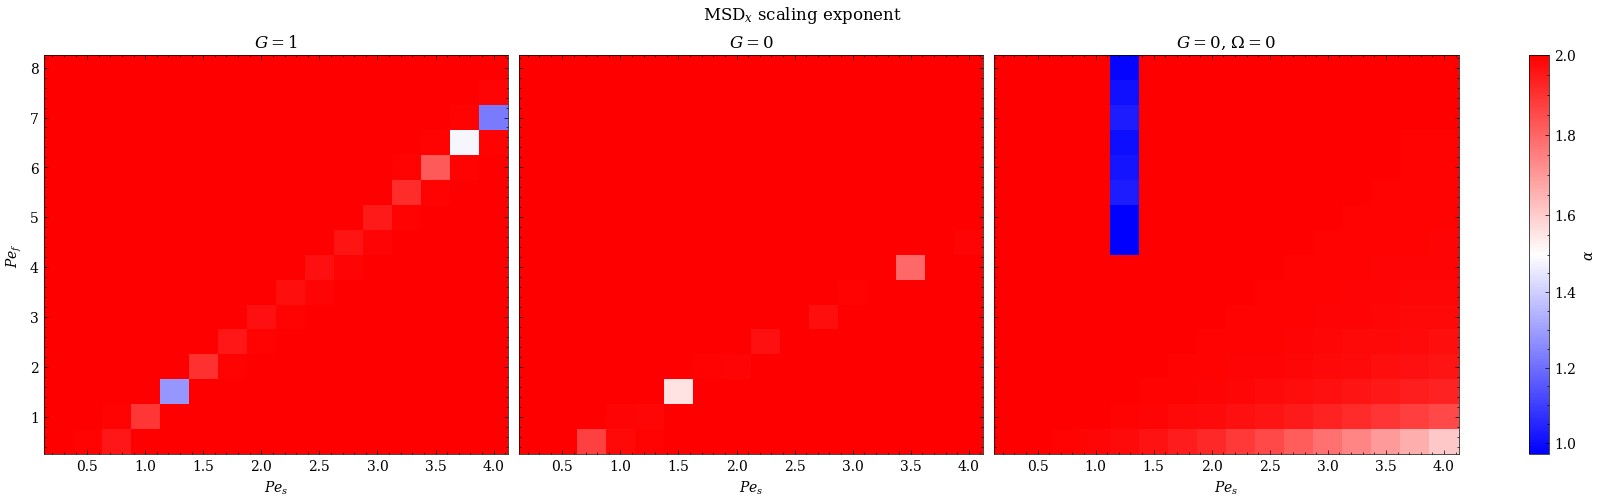
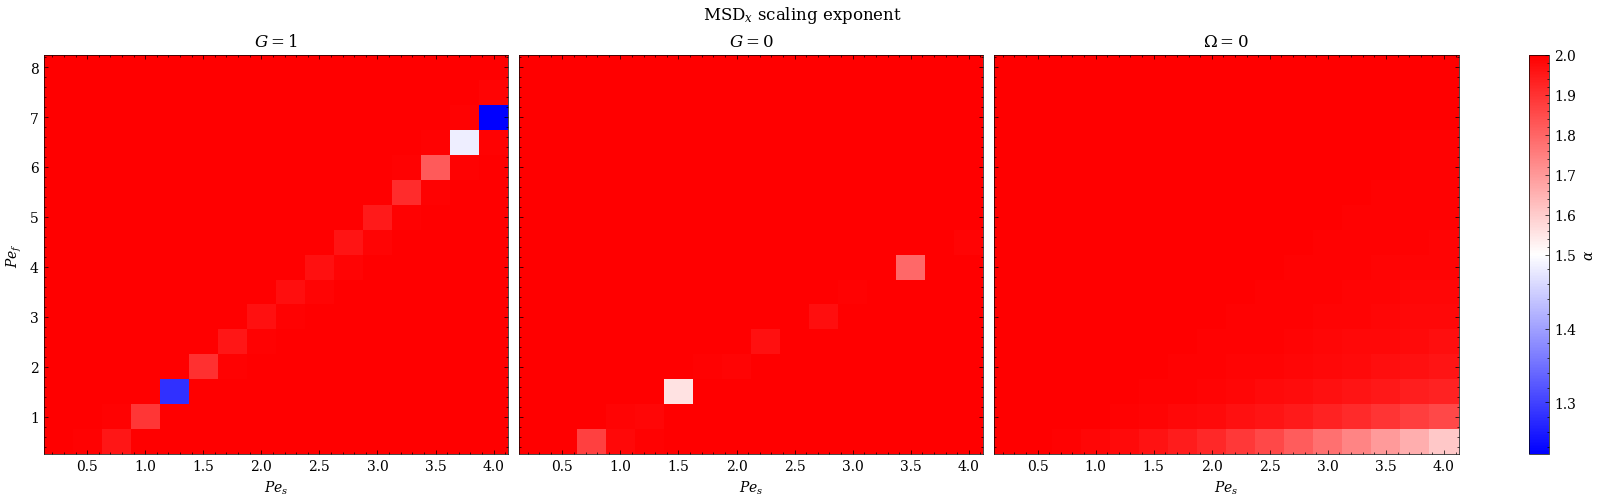
mean displacements code for abp_trap

diff --git a/workstation/array/abp_trap.py b/workstation/array/abp_trap.py
@@ -273,13 +273,15 @@ class ABPTrap:
         self.r, self.e = read_configurations(configs, N)
         
  
-    def Run(self, trap_file, bulk_file):
+    def Run(self, ttd_file, btd_file, tdx_file, bdx_file):
         """
         Run the simulation and return the results
 
         Arguments:
-            trap_file: file in which to save ttd data
-            bulk_file: file in which to save the btd data
+            ttd_file: file in which to save ttd data
+            btd_file: file in which to save the btd data
+            tdx_file: file in which to save the mean trap displacement
+            bdx_file: file in which to save the mean bulk displacement
         """
         # Get positions and orientations
         r = self.r
@@ -287,9 +289,18 @@ class ABPTrap:
         # Initialise trap and bulk timers
         T_timer = np.zeros(self.N)
         B_timer = np.zeros(self.N)
+        # Initialise trap and bulk start positions
+        T_starts = np.zeros(self.N)
+        B_starts = np.zeros(self.N)
+        # Initialise trap and bulk instance counters
+        T_count = 0
+        B_count = 0
+        # Initialise sum of trap and bulk displacements
+        tdx_sum = 0
+        bdx_sum = 0
         # Initialise trapping/bulk time output files
-        open(trap_file, 'w')
-        open(bulk_file, 'w')
+        open(ttd_file, 'w')
+        open(btd_file, 'w')
         # Only track bulk times after completing first trap
         valid_bulk = np.full(self.N, False)
         # Get number of decimal places for rounding output
@@ -312,18 +323,28 @@ class ABPTrap:
             for n in range(self.N):
                 # Check for trap completion
                 if trap_complete[n]:
+                    # Increment trap counter
+                    T_count += 1
                     # Calculate trap time
                     trap = T_timer[n] * self.dt
+                    # Add trap displacement to sum
+                    tdx_sum += r[n, 0] - T_starts[n]
                     # Save trap time to file
-                    with open(trap_file, 'a') as f:
+                    with open(ttd_file, 'a') as f:
                         f.write(f"{np.round(trap, dec_places)}\n")
 
-                    # Calculate bulk time
+                    # Check at least one trap has occurred
                     if valid_bulk[n]:
+                        # Increment bulk counter
+                        B_count += 1
+                        # Calculate bulk time
                         bulk = (B_timer[n] - T_timer[n]) * self.dt
+                        # Add bulk displacement to sum
+                        bdx_sum += T_starts[n] - B_starts[n]
                         # Save bulk time to file
-                        with open(bulk_file, 'a') as f:
+                        with open(btd_file, 'a') as f:
                             f.write(f"{np.round(bulk, dec_places)}\n")
+
                     # Validate bulk measurements
                     else:
                         valid_bulk[n] = True
@@ -334,14 +355,30 @@ class ABPTrap:
 
                 # Increment timers if particle appears to be in a trap
                 elif is_trap[n]:
+                    # Save starting position of trap
+                    if T_timer[n] == 0:
+                        T_starts[n] = r[n, 0]
+
                     T_timer[n] += 1
                     B_timer[n] += 1
 
                 # Keep trap timer at zero if particle not in trap
                 else:
+                    # Save starting position of bulk
+                    if B_timer[n] == 0:
+                        B_starts[n] = r[n, 0]
+
                     T_timer[n] = 0
                     B_timer[n] += 1
 
+        # Calculate mean trap and bulk displacements
+        mean_tdx = tdx_sum / T_count
+        mean_bdx = bdx_sum / B_count
+        # Save to file
+        with open(tdx_file, "w") as f:
+            f.write(f"{mean_tdx}")
+        with open(bdx_file, "w") as f:
+            f.write(f"{mean_bdx}")
 
 
 if __name__ == "__main__":
@@ -356,10 +393,12 @@ if __name__ == "__main__":
     parser.add_argument('-G', type=float, default=0, help='Geometrical factor related to particle aspect ratio')
     parser.add_argument('-ttd', type=str, default=None, help="Filepath to store the output ttd data")
     parser.add_argument('-btd', type=str, default=None, help="Filepath to store the output btd data")
+    parser.add_argument('-tdx', type=str, help="Filepath to store the mean trap displacement")
+    parser.add_argument('-bdx', type=str, help="Filepath to store the mean bulk displacement")
     parser.add_argument('-c', type=str, help="Directory containing logscale trajectories to read final ABP configurations")
     args = parser.parse_args()
 
     # Create ABP (trapping/bulk times) object
     abp = ABPTrap(args.N, args.T, args.dt, args.Ps, args.D, args.Pf, args.G, args.c)
     # Run simulation
-    abp.Run(args.ttd, args.btd)
+    abp.Run(args.ttd, args.btd, args.tdx, args.bdx)

diff --git a/abp_analysis.py b/abp_analysis.py
@@ -419,7 +419,7 @@ def pd3_comparison():
         axes[1].set_title('$G = 0$')
         axes[1].set_xlabel("$Pe_s$")
         mesh3 = axes[2].pcolormesh(X0NV, Y0NV, data3, cmap='bwr', norm=norm, shading='auto')
-        axes[2].set_title(r'$G = 0$, $\Omega = 0$')
+        axes[2].set_title(r'$\Omega = 0$')
         axes[2].set_xlabel("$Pe_s$")
         fig.suptitle(f"{title}")
         cbar = fig.colorbar(mesh3, ax=axes, location='right', label=label)
